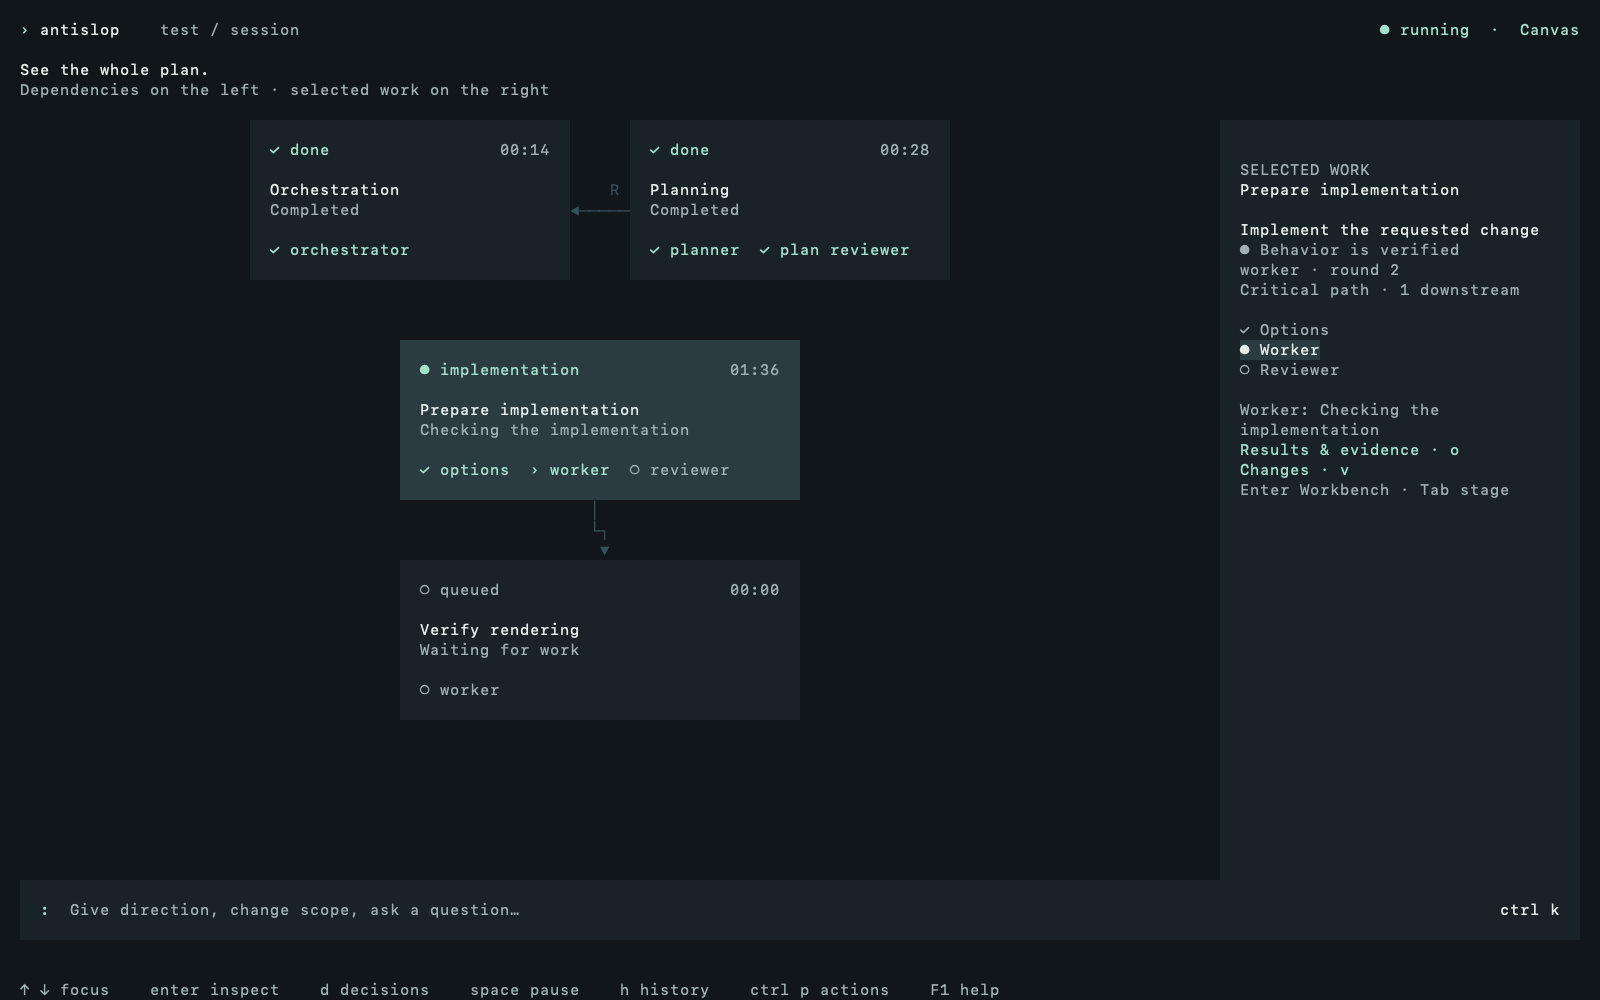
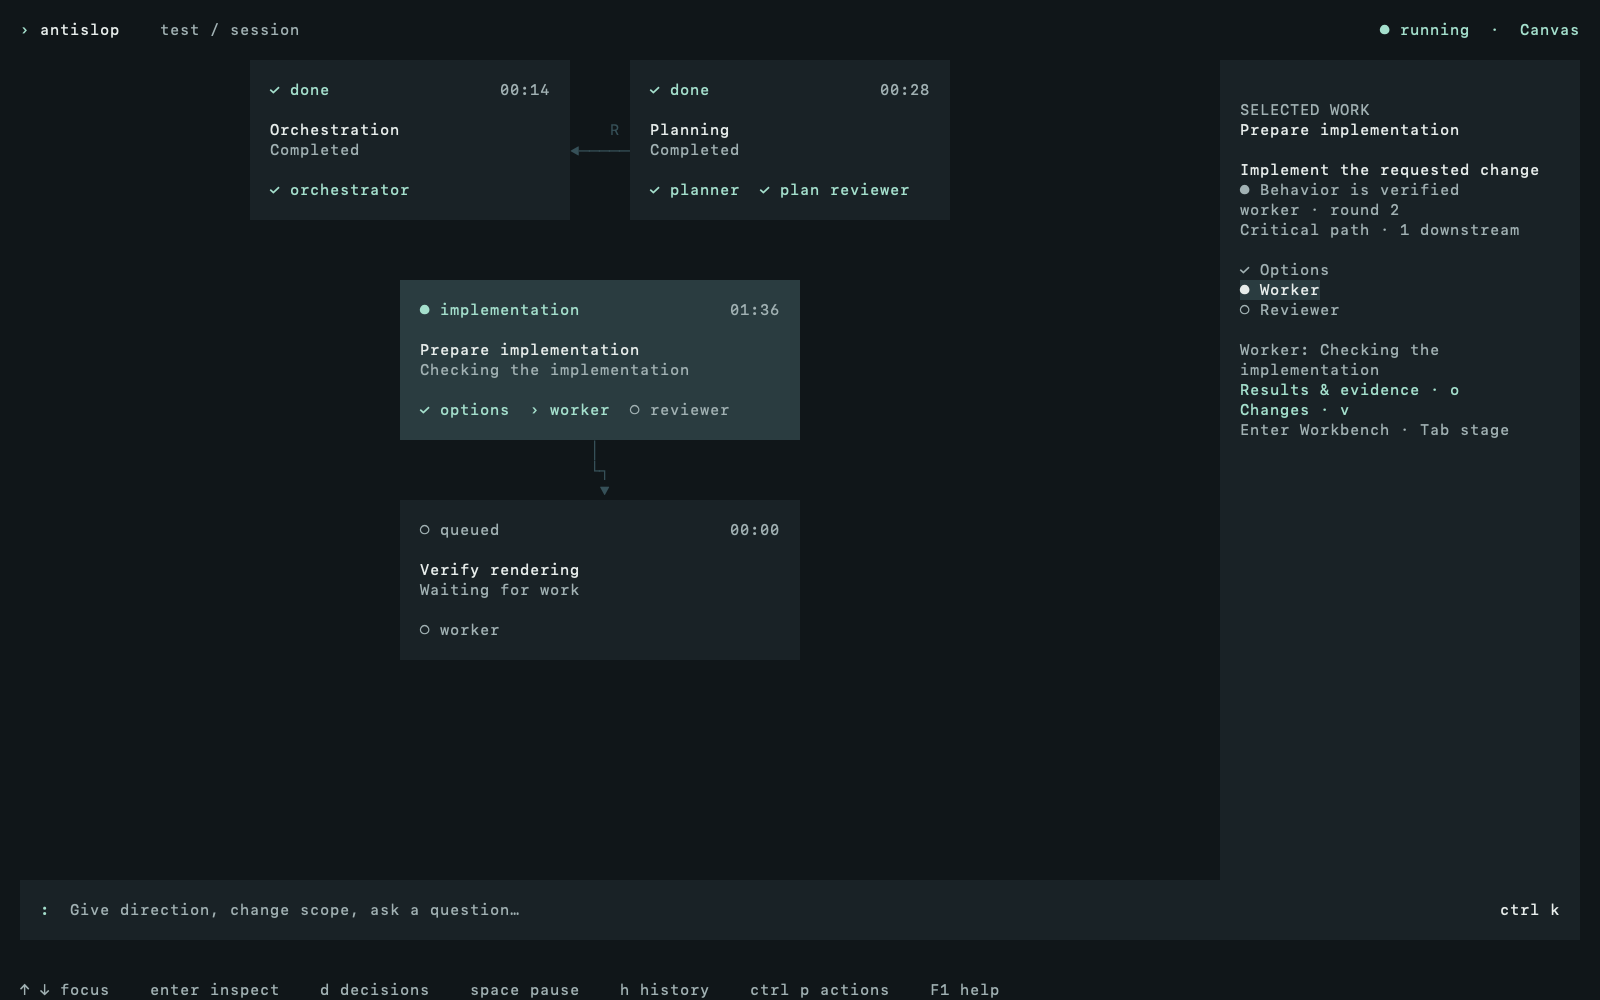
fix(tui): remove Canvas heading

diff --git a/src/lean/tui/render/specialized_screens.rs b/src/lean/tui/render/specialized_screens.rs
@@ -470,13 +470,12 @@ impl App {
         self.chat_area = body;
         let body = super::chrome::inset(body);
         let spacious = body.height >= 25;
-        let [identity, heading, canvas, invitation] = Layout::vertical([
+        let [identity, canvas, invitation] = Layout::vertical([
             Constraint::Length(if spacious {
                 2
             } else {
                 u16::from(body.height >= 10)
             }),
-            Constraint::Length(if spacious { 3 } else { 0 }),
             Constraint::Min(1),
             Constraint::Length(if spacious { 3 } else { 2 }),
         ])
@@ -496,27 +495,12 @@ impl App {
             &theme.chrome(&format!("{status}  ·  Canvas")),
             theme,
         );
-        if !heading.is_empty() {
+        if pending > 0 && identity.height > 1 && identity.width >= 60 {
             frame.render_widget(
-                Paragraph::new("See the whole plan.").style(theme.text()),
-                Rect::new(heading.x, heading.y, heading.width, 1),
+                Paragraph::new(theme.chrome(&format!("{pending} decision(s) · d")))
+                    .style(theme.decision()),
+                Rect::new(identity.right().saturating_sub(22), identity.y + 1, 22, 1),
             );
-            if heading.height > 1 {
-                frame.render_widget(
-                    Paragraph::new(
-                        theme.chrome("Dependencies on the left · selected work on the right"),
-                    )
-                    .style(theme.dim()),
-                    Rect::new(heading.x, heading.y + 1, heading.width, 1),
-                );
-            }
-            if pending > 0 && heading.width >= 60 {
-                frame.render_widget(
-                    Paragraph::new(theme.chrome(&format!("{pending} decision(s) · d")))
-                        .style(theme.decision()),
-                    Rect::new(heading.right().saturating_sub(22), heading.y, 22, 1),
-                );
-            }
         }
         self.draw_graph(frame, canvas, theme);
         if identity.width >= 80 && !identity.is_empty() {

diff --git a/src/lean/tui/render/coordinator.rs b/src/lean/tui/render/coordinator.rs
@@ -344,9 +344,8 @@ mod tests {
         let buffer = terminal.backend().buffer();
         assert_eq!(buffer[(2, 1)].symbol(), "›");
         assert_eq!(buffer[(2, 1)].fg, crate::lean::tui::theme::ayu::CYAN);
-        assert_eq!(buffer[(2, 3)].symbol(), "S");
-        assert_eq!(buffer[(122, 6)].bg, crate::lean::tui::theme::ayu::PANEL);
-        assert_eq!(buffer[(121, 6)].bg, crate::lean::tui::theme::ayu::BG);
+        assert_eq!(buffer[(122, 3)].bg, crate::lean::tui::theme::ayu::PANEL);
+        assert_eq!(buffer[(121, 3)].bg, crate::lean::tui::theme::ayu::BG);
         assert_eq!(buffer[(2, 44)].bg, crate::lean::tui::theme::ayu::PANEL);
         assert_eq!(buffer[(2, 49)].symbol(), "↑");
         assert!(

diff --git a/src/lean/tui/tests.rs b/src/lean/tui/tests.rs
@@ -2546,9 +2546,8 @@ fn ac_resp_02_app_draw_main_wide_split_at_120_cols() {
     assert!(!text.contains("(Ctrl+T session)"));
     assert!(text.contains("test"));
     assert!(text.contains("antislop"));
-    let strip = view::Stage::Fresh.strip(crate::lean::tui::theme::Theme::from_env().glyphs());
-    assert!(text.contains("See the whole plan."), "{text}");
-    let _ = strip;
+    assert!(!text.contains("See the whole plan."), "{text}");
+    assert!(!text.contains("Dependencies on the left"), "{text}");
 }
 
 #[test]

diff --git a/tests/lean_tui.rs b/tests/lean_tui.rs
@@ -2099,7 +2099,8 @@ fn app_resizing_cursor_bounds_picker_overlay_ascii_no_color() {
         .iter()
         .map(|c| c.symbol())
         .collect();
-    assert!(text_overlay.contains("See the whole plan."));
+    assert!(!text_overlay.contains("See the whole plan."));
+    assert!(!text_overlay.contains("Dependencies on the left"));
     assert!(!text_overlay.contains(" now "));
     assert!(text_overlay.contains("compiling tests"));
 

diff --git a/AGENTS.md b/AGENTS.md
@@ -2712,7 +2712,7 @@ src
      draw_with_theme(frame,theme) > sync_interview,draw_min_term_guard,sync_{native_views,approval,rigor_recommendation},draw_{plan_history,secondary_or_main,remaining}
      draw_graph(frame,area,theme) ~67 > graph_{areas,expansion,scope_with_exception},get_with_expanded,keep_graph_selection_visible,center_animated_card,draw_graph_position_markers,new_window,draw_{graph_inspector,expanded_card_panels,expanded_entry_arrows,progress}
      graph_expansion():(Option<String>,u8)
-     draw_main(frame,theme) ~69 > inset,areas,len,chrome,brand,Theme.{dim,decision},draw_graph,direction,draw_footer
+     draw_main(frame,theme) ~53 > inset,areas,len,chrome,brand,Theme.decision,draw_graph,direction,draw_footer
      draw_transcript(frame,area,theme) > prepare_transcript_rows,add_workflow_card,{add_plain,add_empty}_transcript,draw_transcript_viewport
      transcript_visible_rows(start,end,history_height,extra,theme):Vec<Row> > append_visible_history
      transcript_card_rows(entry,found,width,theme):Vec<Row> > comment_{card_ref,rows},standard_card_rows
@@ -3255,6 +3255,6 @@ work/visualizations
    mod:*install_task_protocol,fixture_{conversation,conversation_with_requirements},session_{worktree,branch,worktree_if_present},confirm_scope,install_task_options_protocol,task_branch
    pty_shim.py:*ask,without,planned_task,call,finish,rpc,dialog,main
    task_cli.py:*_fixture_{emit,block}
-· 169,389 LOC · input 1,551,855 · output 48,451 tokens · state 65eade48a3ed · targets AGENTS.md
+· 169,372 LOC · input 1,551,678 · output 48,449 tokens · state e09429f6e2e7 · targets AGENTS.md
 ```
 <!-- hologram:end -->

diff --git a/docs/grouped-work-tui.md b/docs/grouped-work-tui.md
@@ -35,7 +35,7 @@ translation uses a single font size and maps spacing onto cells. At 160×50:
 
 | Element | Geometry and treatment |
 |---|---|
-| Outer chrome | Two-column side margins, one-row top margin; separate brand and title rows |
+| Outer chrome | Two-column side margins, one-row top margin; Canvas starts below the brand, without a heading or subtitle |
 | Canvas | Flat work cards; three-column gap before the padded 36-column inspector |
 | Workbench | 30-column task hierarchy, three-column gap, equal content/PTY shares |
 | Content | Filled panel with padded title and tabs; no nested diff toolbar or box outlines |
